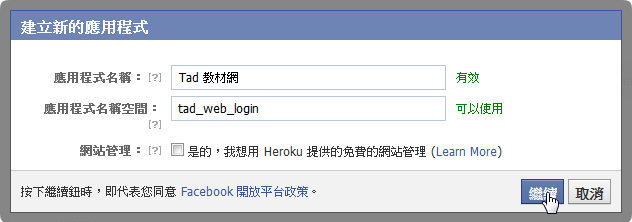
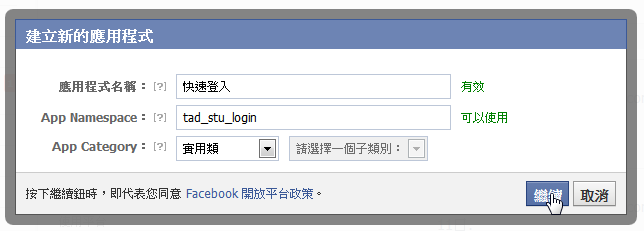
修正說明檔

diff --git a/admin/main.php b/admin/main.php
@@ -13,28 +13,28 @@ function facebook_desc(){
   global $xoopsTpl;
   $main="
     <p>"._MA_TAD_LOGIN_STEP1."</p><br>
-    <img src='../images/step1.png' alt='step1.png, 24kB' title='Step1' border='0' height='186' width='1011'><br><br>
+    <img src='../images/step1.png' alt='step1.png, 24kB' title='Step1' border='0'><br><br>
     <p>"._MA_TAD_LOGIN_STEP2."</p><br>
-    <img src='../images/step2.png' alt='step2.png, 11kB' title='Step2' border='0' height='222' width='632'><br><br>
+    <img src='../images/step2.png' alt='step2.png, 11kB' title='Step2' border='0'><br><br>
     <p>"._MA_TAD_LOGIN_STEP3."</p><br>
-    <img src='../images/step3.png' alt='step3.png, 25kB' title='Step3' border='0' height='314' width='632'><br><br>
+    <img src='../images/step3.png' alt='step3.png, 25kB' title='Step3' border='0'><br><br>
     <p>"._MA_TAD_LOGIN_STEP4."</p><br>
-    <img src='../images/step4.png' alt='step4.png, 28kB' title='Step4' border='0' height='477' width='715'><br><br>
+    <img src='../images/step4.png' alt='step4.png, 28kB' title='Step4' border='0'><br><br>
     <p>"._MA_TAD_LOGIN_STEP5."</p><br>
-    <img src='../images/step5.png' alt='step5.png, 16kB' title='Step5' border='0' height='248' width='987'><br><br>
+    <img src='../images/step5.png' alt='step5.png, 16kB' title='Step5' border='0'><br><br>
     <p>"._MA_TAD_LOGIN_STEP6."</p><br>
-    <img src='../images/step6.png' alt='step6.png, 3.9kB' title='Step6' border='0' height='99' width='250'><br><br>
+    <img src='../images/step6.png' alt='step6.png, 3.9kB' title='Step6' border='0'><br><br>
     <p>"._MA_TAD_LOGIN_STEP7."</p><br>
-    <img src='../images/step7.png' alt='step7.png, 19kB' title='Step7' border='0' height='299' width='660'><br><br>
+    <img src='../images/step7.png' alt='step7.png, 19kB' title='Step7' border='0'><br><br>
     <p>"._MA_TAD_LOGIN_STEP8."</p><br>
-    <img src='../images/step8.png' alt='step8.png, 27kB' title='Step8' border='0' height='559' width='766'><br><br>
+    <img src='../images/step8.png' alt='step8.png, 27kB' title='Step8' border='0'><br><br>
     <hr>
     <p>"._MA_TAD_LOGIN_STEP9."</p><br>
-    <img src='../images/step9.png' alt='step9.png, 8.6kB' title='Step9' border='0' height='252' width='569'><br><br>
+    <img src='../images/step9.png' alt='step9.png, 8.6kB' title='Step9' border='0'><br><br>
     <p>"._MA_TAD_LOGIN_STEP10."</p><br>
-    <img src='../images/step10.png' alt='step10.png, 10kB' title='Step10' border='0' height='32' width='677'><br><br>
+    <img src='../images/step10.png' alt='step10.png, 10kB' title='Step10' border='0'><br><br>
     <p>"._MA_TAD_LOGIN_STEP11."</p><br>
-    <img src='../images/step11.png' alt='step11.png, 5.3kB' title='Step11' border='0' height='118' width='716'><br><br>
+    <img src='../images/step11.png' alt='step11.png, 5.3kB' title='Step11' border='0'><br><br>
   ";
   $xoopsTpl->assign("main",$main) ;
 }

diff --git a/language/tchinese_utf8/admin.php b/language/tchinese_utf8/admin.php
@@ -4,7 +4,7 @@ define("_TAD_NEED_TADTOOLS"," 需要 tadtools 模組，可至<a href='http://www
 
 
 define("_MA_TAD_LOGIN_STEP1","<h1>【步驟 1】建立應用程式</h1><p>請連至 <a href='https://developers.facebook.com/apps' target='_blank'>https://developers.facebook.com/apps</a>，點選「Apps」→「建立新的應用程式」。</p>");
-define("_MA_TAD_LOGIN_STEP2","<h1>【步驟 2】建立新的應用程式</h1><p>第三格不用填，因為用不到。其他兩格只要設定到 FaceBook 設可以（都變成綠色）就沒問題。</p>");
+define("_MA_TAD_LOGIN_STEP2","<h1>【步驟 2】建立新的應用程式</h1><p><ol><li>「應用程式名稱」就填一個您看得懂的中文即可，例如「快速登入」</li><li>「App Namespace」應用程式名稱空間填入一個英文代號，例如：xxx_login</li><li>「App Category」應用程式類別就隨便選一個吧！</li></ol></p>");
 define("_MA_TAD_LOGIN_STEP3","<h1>【步驟 3】驗證</h1><p>請努力通過煩人的驗證碼，中間（換行處）記得要空一格。</p>");
 define("_MA_TAD_LOGIN_STEP4","<h1>【步驟 4】最重要的步驟</h1><p>將「以FaceBook登入網站」打勾，並輸入網址（萬一日後登入時一直顯示網址錯誤，有可能是這裡設錯）。上面的 App ID 和 App Secret 就是等一下要填到偏好設定的兩個值。</p>");
 define("_MA_TAD_LOGIN_STEP5","<h1>【步驟 5】偏好設定</h1><p>請連到本模組的偏好設定，將  App ID 和 App Secret 依序填入，最後儲存即可。</p>");
